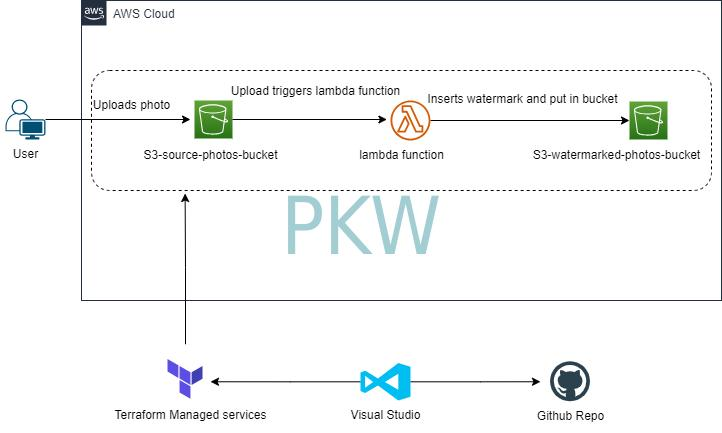
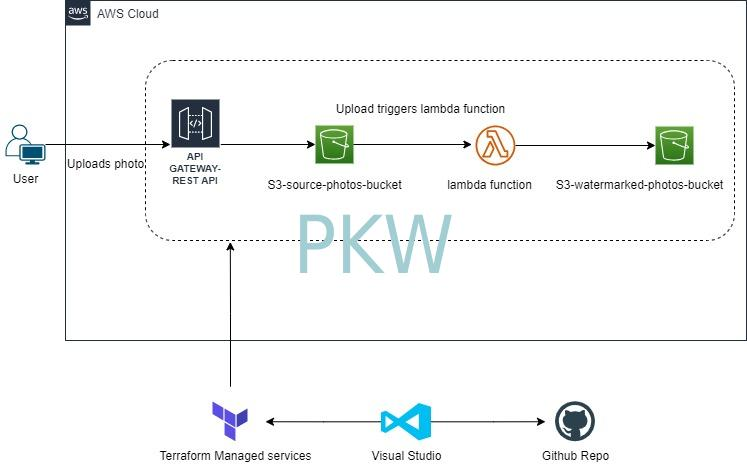
Readme update

diff --git a/README.md b/README.md
@@ -2,9 +2,13 @@
 ![Architecture Diagram](MarkdownFiles/ArchitecturalDiagram.jpg)
 
 This project is a solution to watermark images using AWS services. The AWS services used are:
+* API Gateway
 * S3 bucket
 * Lambda function
 * Cloud watch
+
+## API Gateway
+API gateway, a serverless service, is used to create a REST API that uploads images to a S3 bucket.
 
 ## S3 Bucket
 There are two S3 buckets, one to store source images and the other one to store watermarked images. Once an image is uploaded on the source bucket, it triggers the lambda function which watermarks the image then stores the watermarked image on the watermarked bucket.
